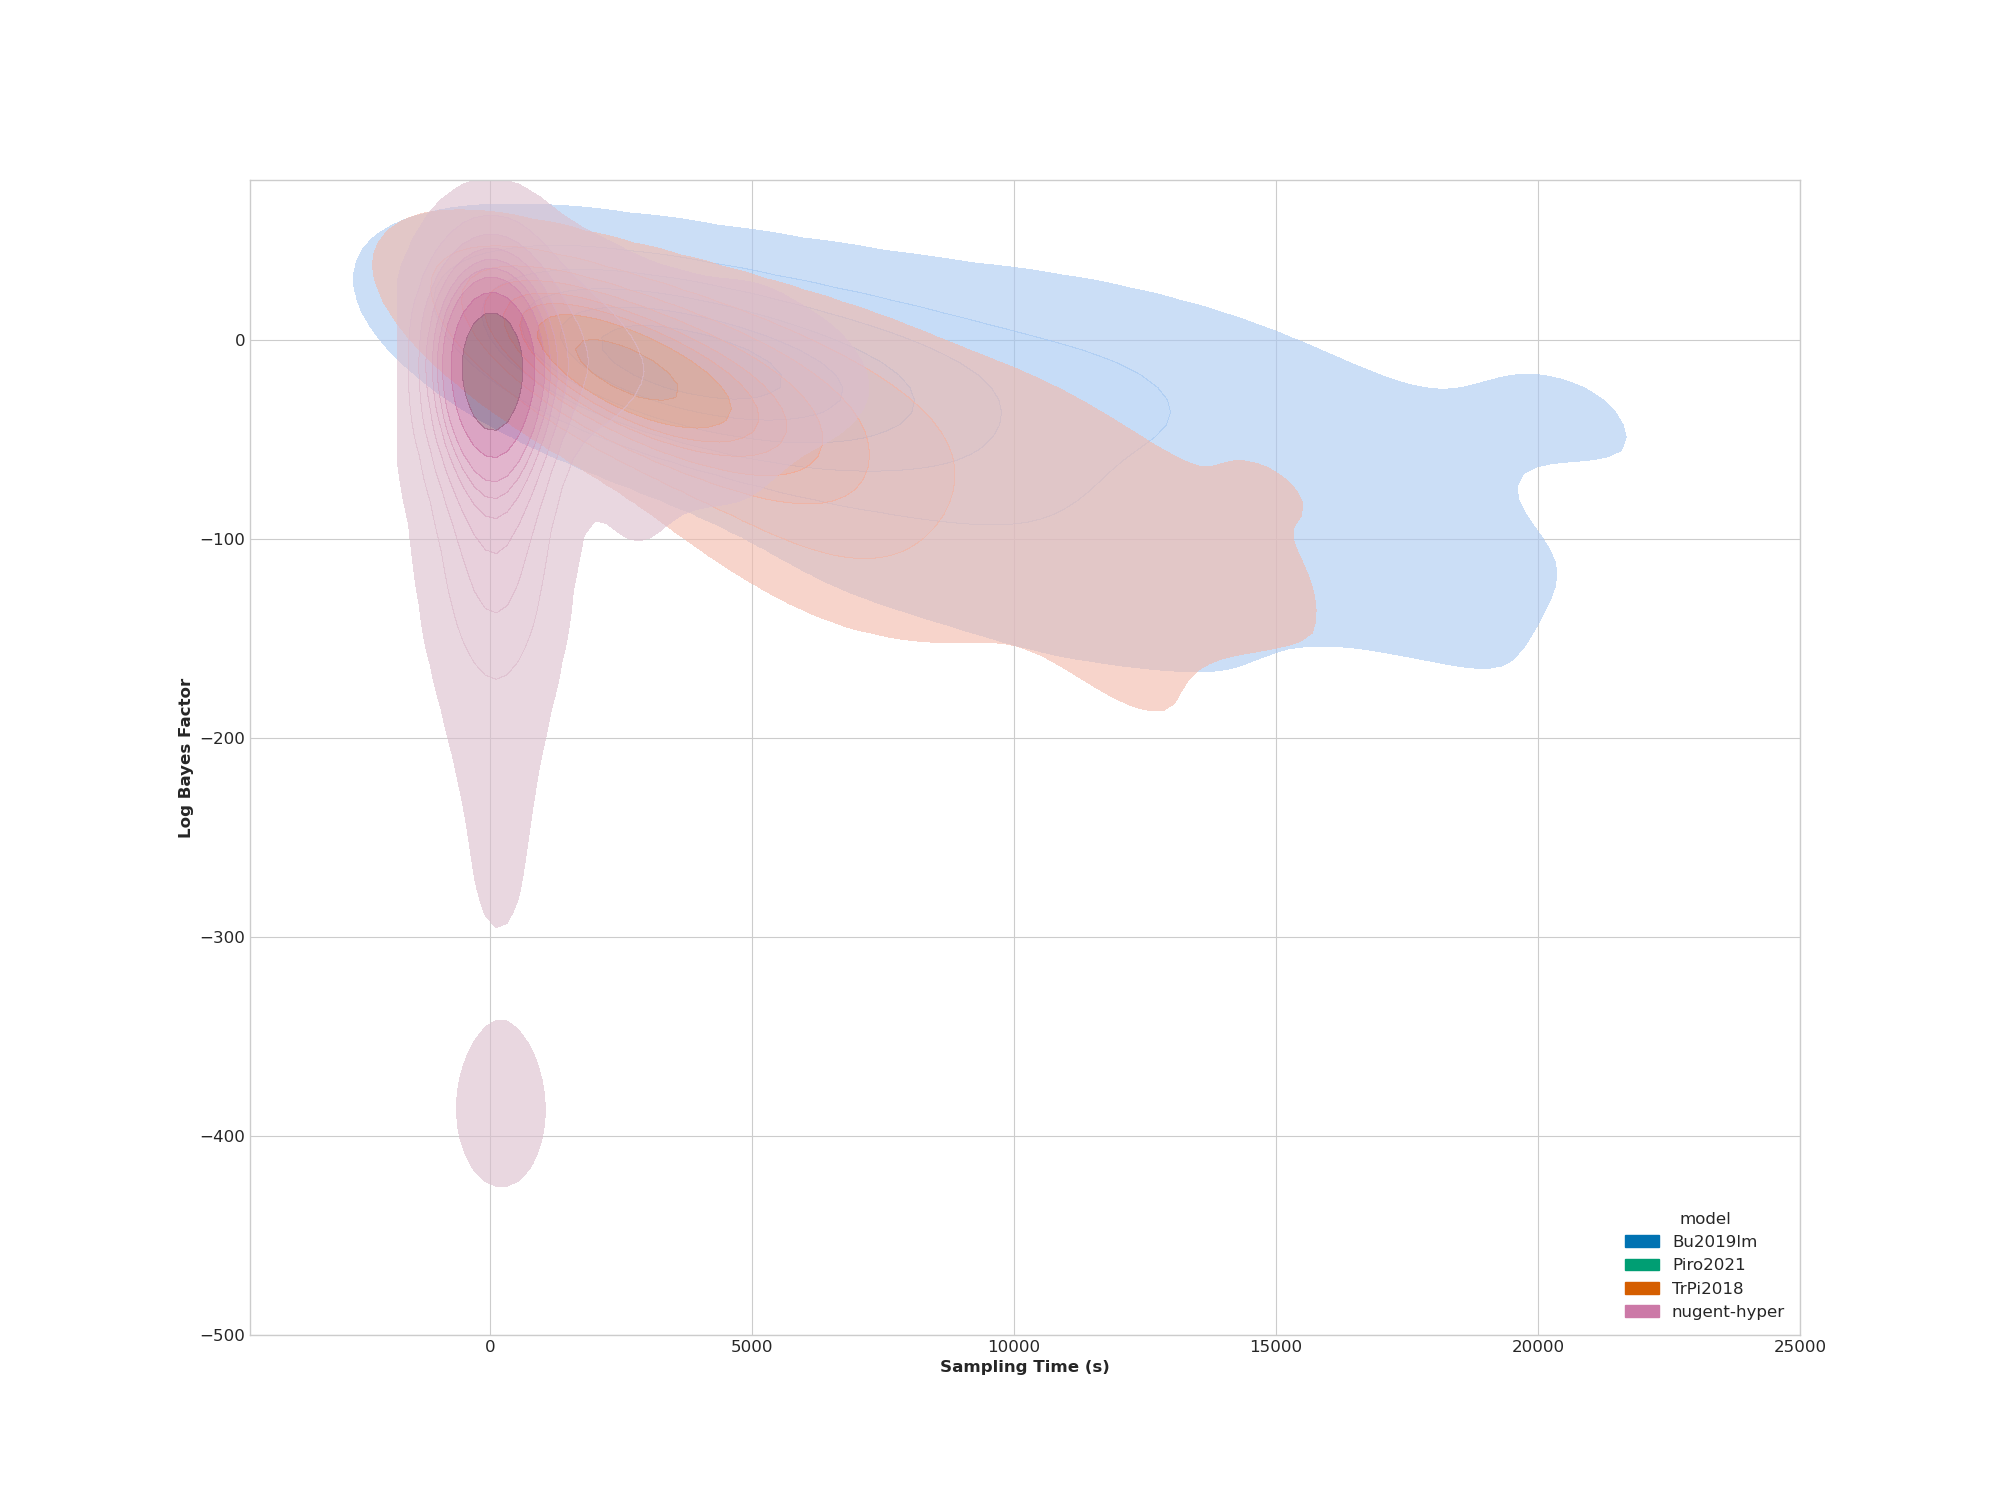
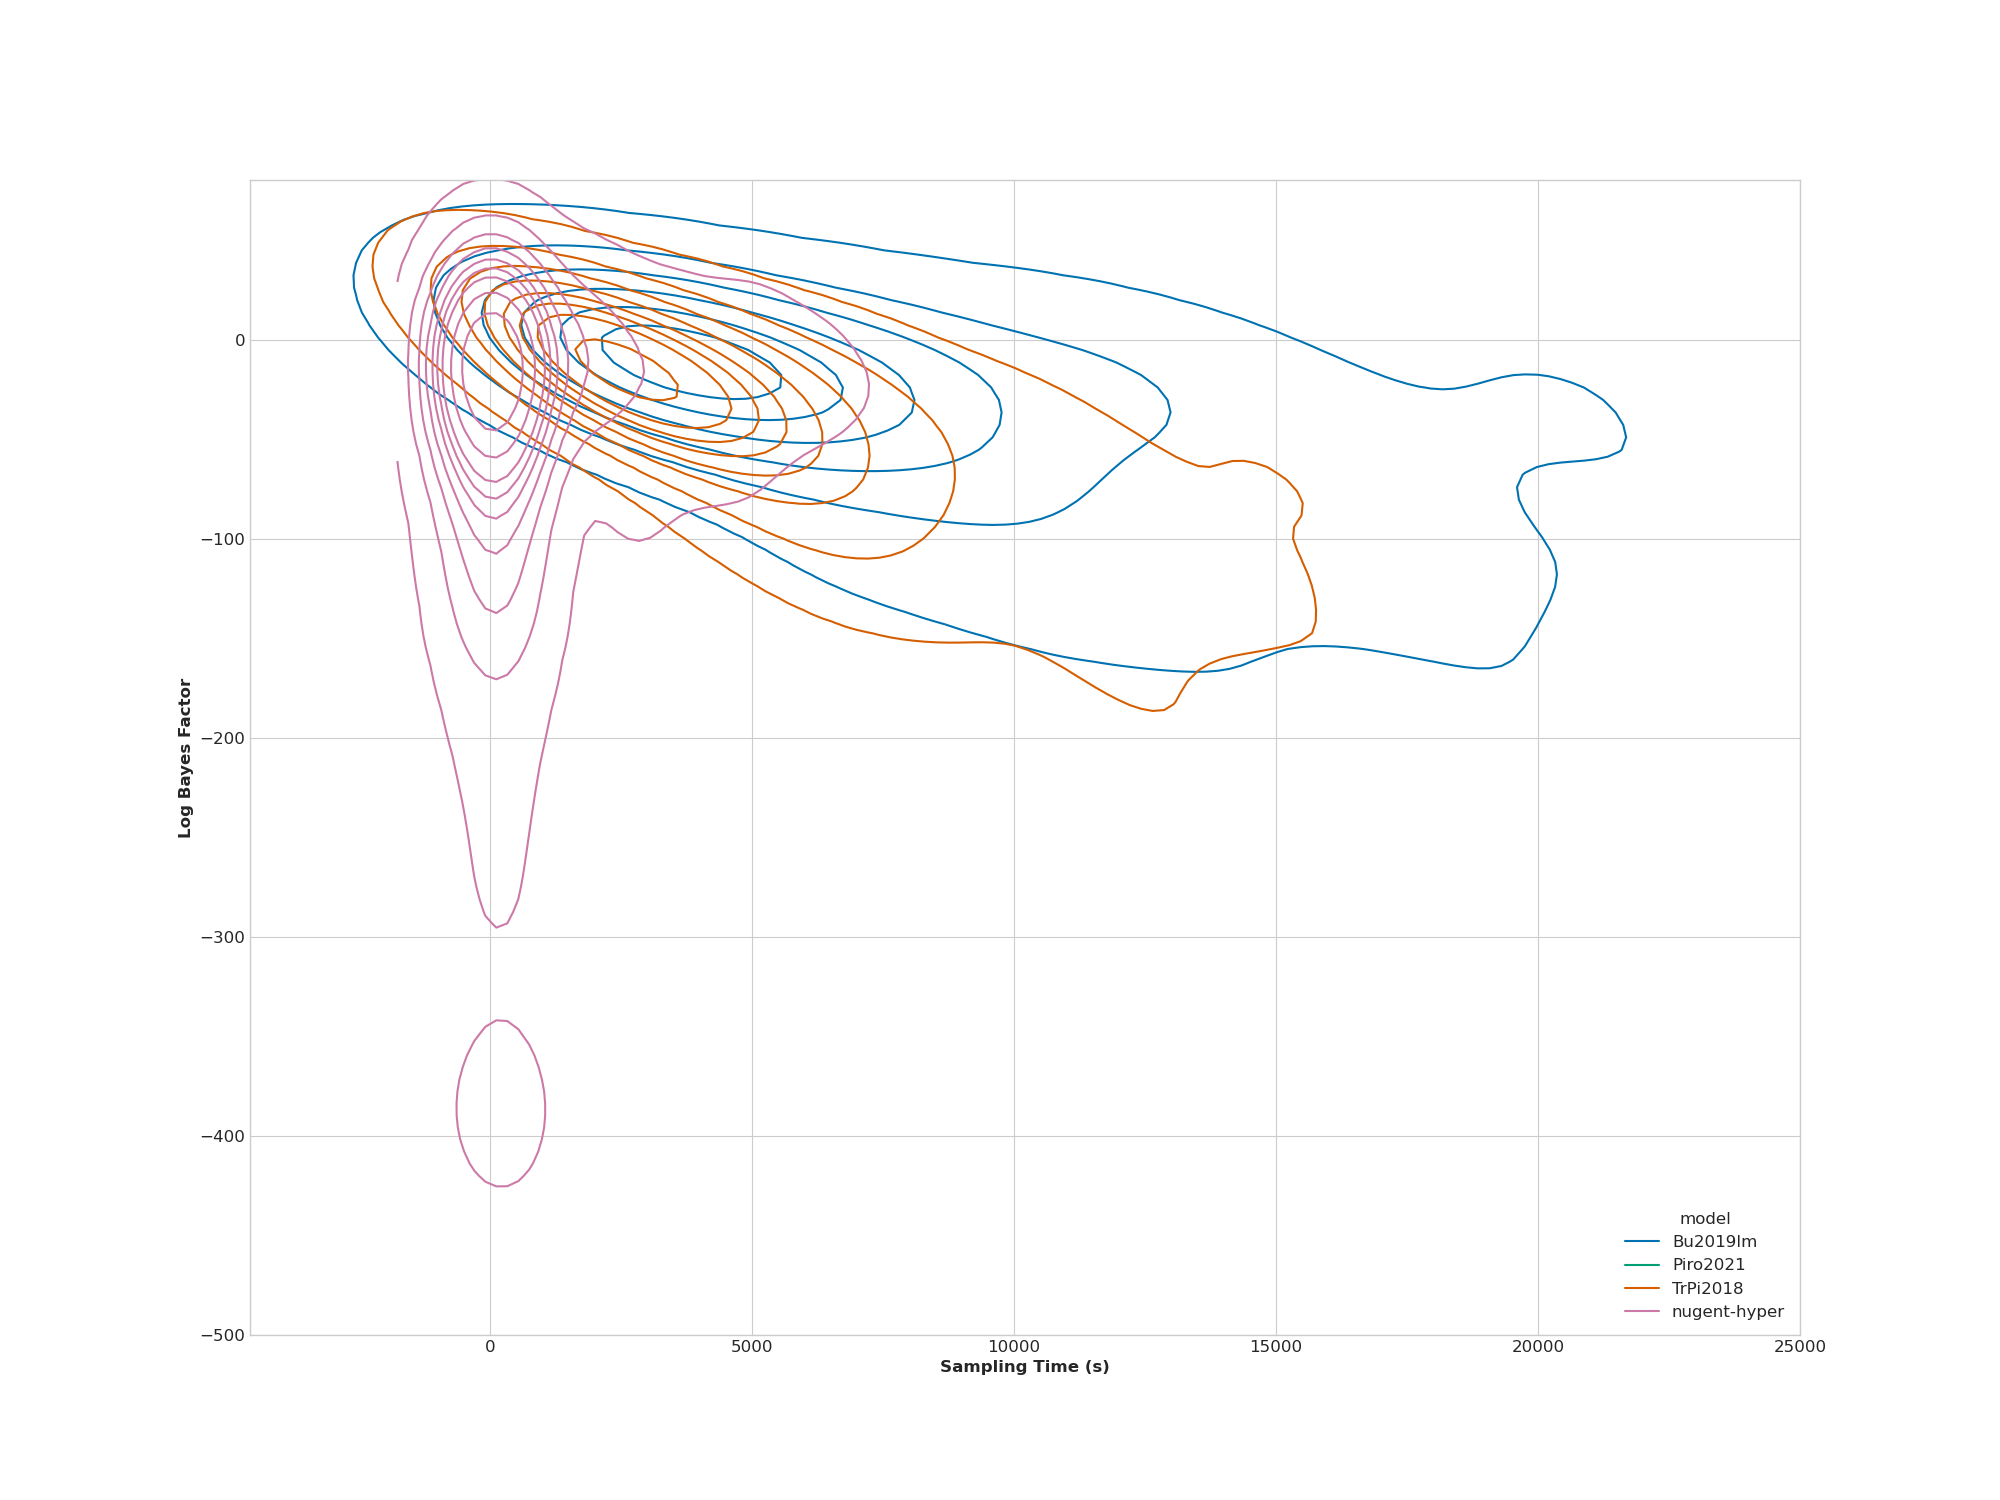
added a nofill kdeplot

Changed region(s): [[0.155, 0.1227, 0.837, 0.6133], [0.217, 0.6747, 0.279, 0.7973], [0.806, 0.828, 0.837, 0.8893]]

diff --git a/stats.py b/stats.py
@@ -997,6 +997,24 @@ def plotLikelihood(df, models=args.models, save=True,outdir=args.outdir):
     ## kde plot of sampling time vs bayes factor for each model
     fig, ax = plotstyle(figsize=(20,15), facecolor='white')
     plot = sns.kdeplot(data=df, x='sampling_time',y='log_bayes_factor', 
+                       hue='model', fill=False,
+                       legend='full', #clip=((0,25000),(-500,0)),
+                       ax=ax, alpha=1)
+    ax.set_xlabel("Sampling Time (s)")
+    ax.set_ylabel('Log Bayes Factor')
+    #ax.legend()
+    ax.set_xlim(right=25000)## presumes a certain max sampling time
+    ax.set_ylim(bottom=-500)
+    sns.move_legend(plot, 'lower right')
+    plt.savefig(plotDir("SamplingTimeBayesKDEModel",outdir=subdir)) if save else None
+    # ax.set_xscale('log')
+    # ax.set_yscale('symlog')
+    # plt.savefig(plotDir("SamplingTimeBayesKDEModelLog",outdir=subdir)) if save else None
+    plt.clf()
+    
+    ## kde plot of sampling time vs bayes factor for each model
+    fig, ax = plotstyle(figsize=(20,15), facecolor='white')
+    plot = sns.kdeplot(data=df, x='sampling_time',y='log_bayes_factor', 
                        hue='model', fill=True,
                        legend='full', #clip=((0,25000),(-500,0)),
                        ax=ax, alpha=0.6)
@@ -1006,7 +1024,7 @@ def plotLikelihood(df, models=args.models, save=True,outdir=args.outdir):
     ax.set_xlim(right=25000)## presumes a certain max sampling time
     ax.set_ylim(bottom=-500)
     sns.move_legend(plot, 'lower right')
-    plt.savefig(plotDir("SamplingTimeBayesKDEModel",outdir=subdir)) if save else None
+    plt.savefig(plotDir("SamplingTimeBayesKDEModelFill",outdir=subdir)) if save else None
     # ax.set_xscale('log')
     # ax.set_yscale('symlog')
     # plt.savefig(plotDir("SamplingTimeBayesKDEModelLog",outdir=subdir)) if save else None
